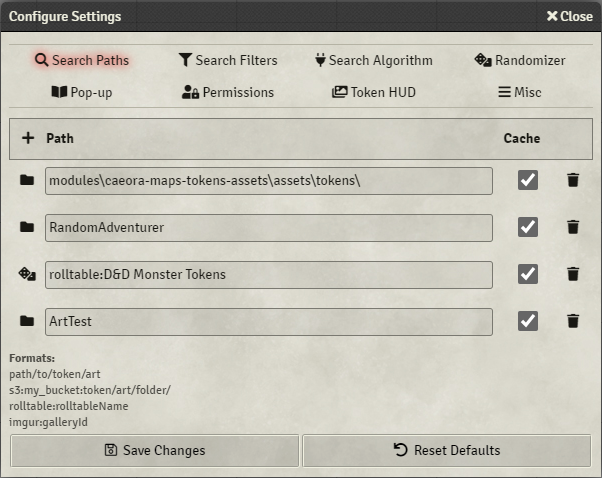
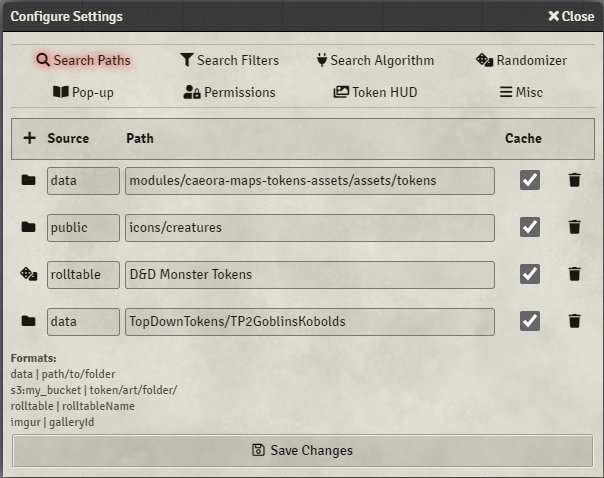
Version bump

diff --git a/templates/configureSettings.html b/templates/configureSettings.html
@@ -64,10 +64,10 @@
 
               <p class="notes">
                 <b>Formats:</b><br />
-                path/to/token/art<br />
-                s3:my_bucket:token/art/folder/<br />
-                rolltable:rolltableName<br />
-                imgur:galleryId
+                data | path/to/folder<br />
+                s3:my_bucket | token/art/folder/<br />
+                rolltable | rolltableName<br />
+                imgur | galleryId
               </p>
         </div>
         {{/if}}

diff --git a/applications/configureSettings.js b/applications/configureSettings.js
@@ -291,7 +291,7 @@ export default class ConfigureSettings extends FormApplication {
       activeSource: activeSource,
       current: current,
       callback: (path, fp) => {
-        pathInput.val(path);
+        pathInput.val(fp.result.target);
         if (fp.activeSource === 's3') {
           sourceInput.val(`s3:${fp.result.bucket}`);
         } else {

diff --git a/applications/forgeSearchPaths.js b/applications/forgeSearchPaths.js
@@ -73,7 +73,7 @@ export class ForgeSearchPaths extends FormApplication {
         if (fp.activeSource !== 'forgevtt') {
           ui.notifications.warn("Token Variant Art: Only 'Assets Library' paths are supported");
         } else {
-          pathInput.val(path);
+          pathInput.val(fp.result.target);
         }
       },
     }).render(true);

diff --git a/README.md b/README.md
@@ -64,13 +64,15 @@ The root of these paths is assumed to be Foundry VTT's local Data folder. The sa
 
 By default 'Token Variants' will attempt to search [Caeora's Maps, Tokens, and Assets](https://foundryvtt.com/packages/caeora-maps-tokens-assets) asset folder if installed.
 
-In addition to local paths you can also add s3 buckets, ForgeVTT asset folders, and Rolltables as image sources:
+Clicking on the folder icon will open up a File browser which will let you to select the folder you want to be scanned. Entering 'rolltable' as a source and selecting the dice icon will open up a dialog instead with all of the available rollable tables.
 
-- To specify a path for a [configured](https://foundryvtt.com/article/aws-s3/) AWS S3 bucket use the following format: **s3:{bucket-name}:{path}**
-- Rolltables can be added using: **rolltable:{rolltable name}**
-- Imgur galleries can be linked with: **imgur:galleryID**
-  - e.g. https://imgur.com/gallery/ **JweWCpf** -> imgur:**JweWCpf**
-  - Imgur paths can be automatically converted to RollTables
+Formats:
+
+- [Configured](https://foundryvtt.com/article/aws-s3/) AWS S3 bucket: **s3:bucketName | path/in/the/bucket/**
+- Rolltables: **rolltable | rolltable name**
+- Imgur galleries: **imgur | galleryID**
+  - e.g. https://imgur.com/gallery/ **JweWCpf** -> imgur | **JweWCpf**
+  - Imgur paths can be automatically converted to RollTables by pressing the "**<<**" button
   - **!!!** Imgur galleries cannot be accessed when running Foundry on 'localhost'
 - For your ForgeVTT asset library see **Forge Asset Library Paths** setting
 
